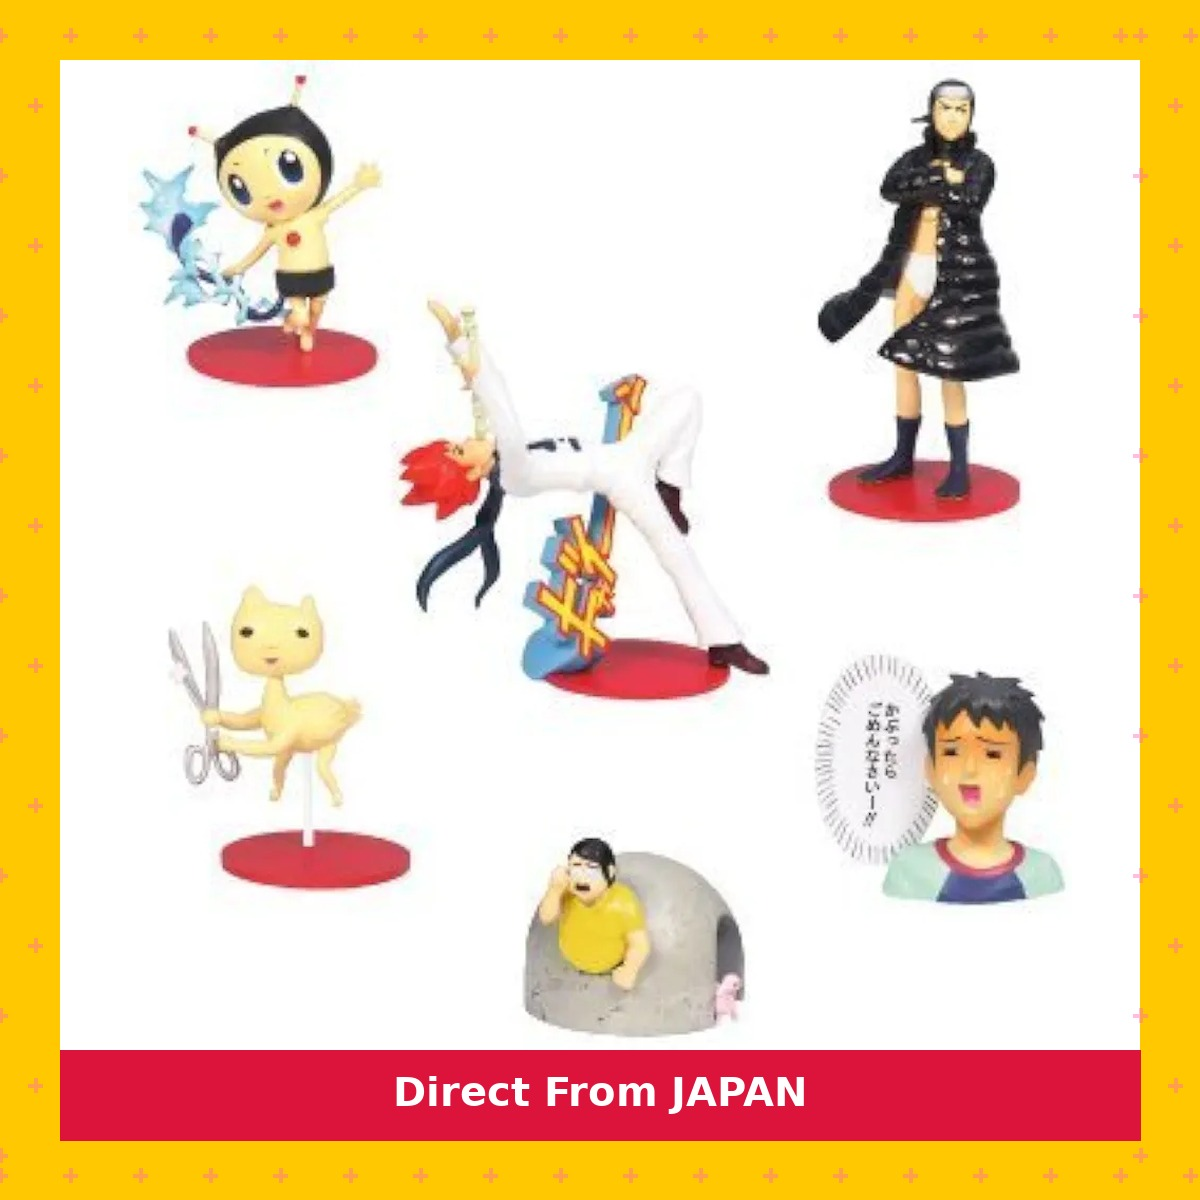
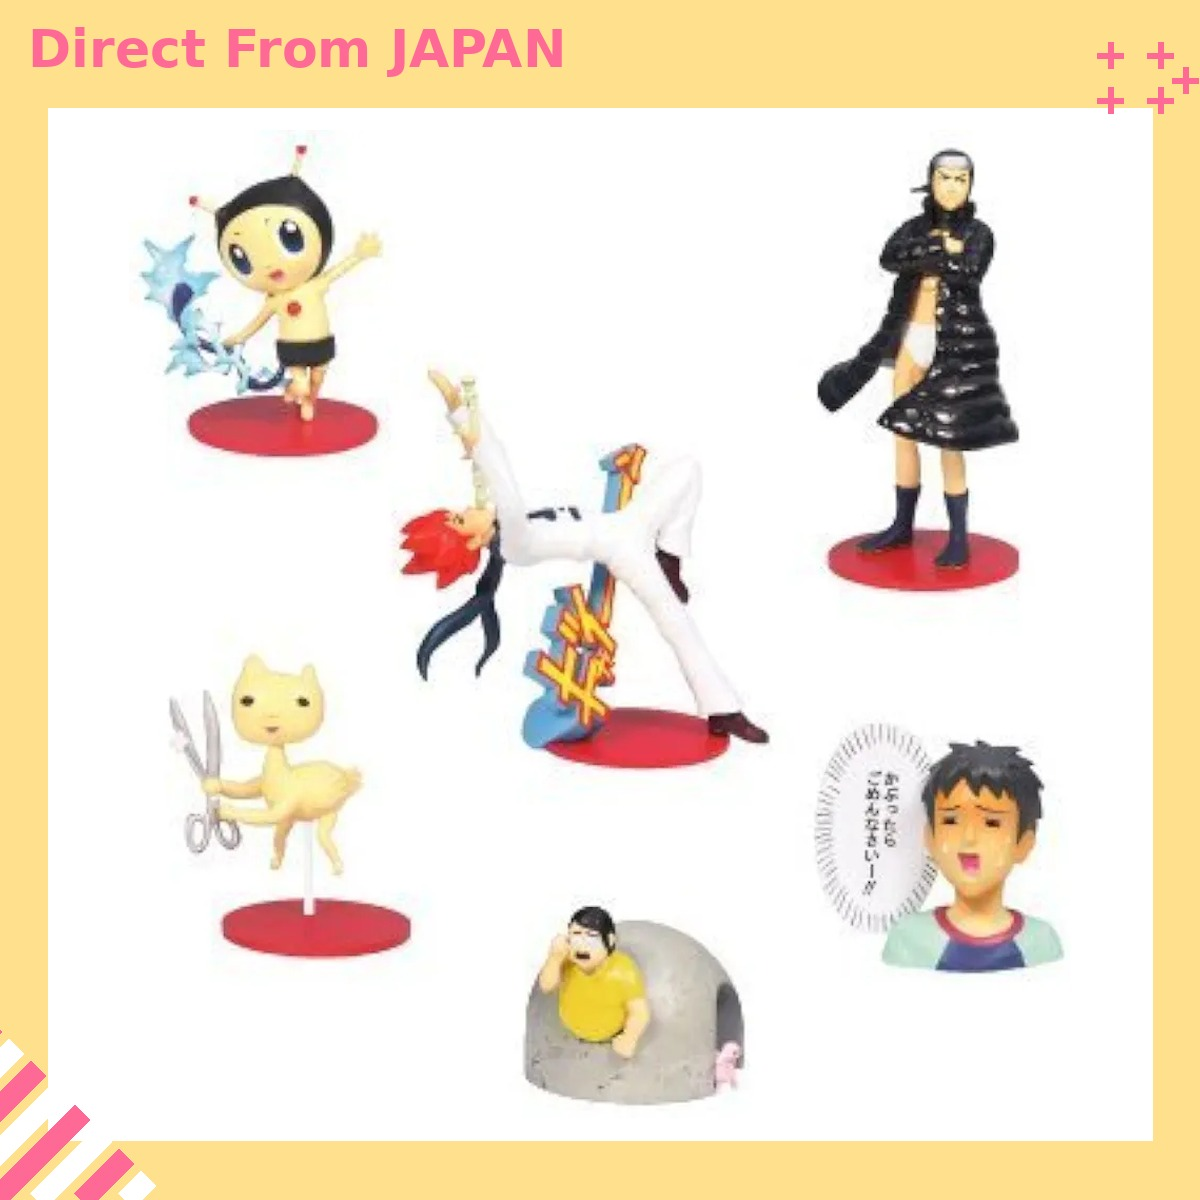
Update Shopee cover frame design to match reference layout
Replace the full-border/bottom-banner frame with a pastel-yellow
background, white product square, top-left pink "Direct From JAPAN"
text, top-right cross cluster, and bottom-left diagonal stripes,
per the reference image provided by the user.

Claude-Session: https://claude.ai/code/session_01QdUngbEzZhRHLENxqxoozk

diff --git a/scripts/add_shopee_frame.py b/scripts/add_shopee_frame.py
@@ -1,8 +1,8 @@
 """
 add_shopee_frame.py
 
-Shopee出品用Cover画像に「黄色枠＋ピンク十字模様＋Direct From JAPANバナー」を
-自動で加工するスクリプト（従来Canvaで手作業していた加工の自動化版）。
+Shopee出品用Cover画像に「パステルイエロー背景＋白抜き商品枠＋左上ピンクDirect From JAPANテキスト
+＋右上ピンク十字クラスター＋左下ピンク斜めストライプ」を自動で加工するスクリプト。
 
 使い方:
     from add_shopee_frame import add_frame
@@ -14,37 +14,23 @@ Shopee出品用Cover画像に「黄色枠＋ピンク十字模様＋Direct From 
 """
 
 from PIL import Image, ImageDraw, ImageFont
-import math
 import os
 
-# ---- デザイン設定（Canva手作業版の見た目に合わせて調整可能） ----
-CANVAS_SIZE = 1200          # 出力画像は正方形(Shopee推奨)
-BORDER_WIDTH = 60           # 黄色枠の太さ(px)
-BORDER_COLOR = (255, 200, 0)      # 黄色
-CROSS_COLOR = (255, 105, 180, 110)  # ピンク十字模様(半透明)
-CROSS_SPACING = 70          # 十字模様の間隔(px)
-CROSS_SIZE = 14             # 十字1つのサイズ(px)
-CROSS_THICKNESS = 4
-BANNER_HEIGHT = 90
-BANNER_BG = (220, 20, 60)   # バナー背景(クリムゾン)
-BANNER_TEXT_COLOR = (255, 255, 255)
+# ---- デザイン設定 ----
+CANVAS_SIZE = 1200               # 出力画像は正方形(Shopee推奨)
+BG_COLOR = (255, 224, 140)       # パステルイエロー背景
+WHITE = (255, 255, 255)
+PINK = (255, 105, 150)           # テキスト/十字/ストライプのピンク
+INNER_PAD = 22                   # 白枠内の商品画像パディング
 
+TOP_BAND = 108                   # 上部(テキスト/十字用)の余白高さ
+SIDE_MARGIN = 48                 # 左右の黄色マージン
+BOTTOM_MARGIN = 60                # 下部の黄色マージン
 
-def _draw_cross_pattern(draw: ImageDraw.ImageDraw, box, spacing=CROSS_SPACING):
-    """box=(x0,y0,x1,y1) の範囲にピンクの十字模様を敷き詰める"""
-    x0, y0, x1, y1 = box
-    y = y0 + spacing // 2
-    row = 0
-    while y < y1:
-        offset = (spacing // 2) if row % 2 else 0
-        x = x0 + offset
-        while x < x1:
-            half = CROSS_SIZE // 2
-            draw.line([(x - half, y), (x + half, y)], fill=CROSS_COLOR, width=CROSS_THICKNESS)
-            draw.line([(x, y - half), (x, y + half)], fill=CROSS_COLOR, width=CROSS_THICKNESS)
-            x += spacing
-        y += spacing
-        row += 1
+CROSS_SIZE = 26
+CROSS_THICKNESS = 6
+STRIPE_WIDTH = 22
+STRIPE_TRIANGLE = 170
 
 
 def _load_font(size):
@@ -58,49 +44,72 @@ def _load_font(size):
     return ImageFont.load_default()
 
 
+def _draw_cross(draw, cx, cy, size, color, thickness):
+    half = size // 2
+    draw.line([(cx - half, cy), (cx + half, cy)], fill=color, width=thickness)
+    draw.line([(cx, cy - half), (cx, cy + half)], fill=color, width=thickness)
+
+
 def add_frame(input_path: str, output_path: str, banner_text: str = "Direct From JAPAN"):
     """
-    input_path の商品画像に黄色枠＋ピンク十字模様＋バナーを加工し、output_path に保存する。
+    input_path の商品画像に、パステルイエロー背景＋白抜き商品枠＋左上ピンクテキスト
+    ＋右上ピンク十字クラスター＋左下ピンク斜めストライプを加工し、output_path に保存する。
     """
     base = Image.open(input_path).convert("RGB")
 
-    # 正方形キャンバスの中央に商品画像を配置(アスペクト比維持・余白は白)
-    inner = CANVAS_SIZE - 2 * BORDER_WIDTH
-    canvas = Image.new("RGB", (CANVAS_SIZE, CANVAS_SIZE), BORDER_COLOR)
+    canvas = Image.new("RGB", (CANVAS_SIZE, CANVAS_SIZE), BG_COLOR)
+    draw = ImageDraw.Draw(canvas)
 
-    photo_area = inner - BANNER_HEIGHT
-    ratio = min(inner / base.width, photo_area / base.height)
+    sq_x0 = SIDE_MARGIN
+    sq_y0 = TOP_BAND
+    sq_x1 = CANVAS_SIZE - SIDE_MARGIN
+    sq_y1 = CANVAS_SIZE - BOTTOM_MARGIN
+    draw.rectangle([sq_x0, sq_y0, sq_x1, sq_y1], fill=WHITE)
+
+    inner_w = (sq_x1 - sq_x0) - 2 * INNER_PAD
+    inner_h = (sq_y1 - sq_y0) - 2 * INNER_PAD
+    ratio = min(inner_w / base.width, inner_h / base.height)
     new_w, new_h = int(base.width * ratio), int(base.height * ratio)
     resized = base.resize((new_w, new_h), Image.LANCZOS)
+    paste_x = sq_x0 + INNER_PAD + (inner_w - new_w) // 2
+    paste_y = sq_y0 + INNER_PAD + (inner_h - new_h) // 2
+    canvas.paste(resized, (paste_x, paste_y))
 
-    white_bg = Image.new("RGB", (inner, photo_area), (255, 255, 255))
-    paste_x = (inner - new_w) // 2
-    paste_y = (photo_area - new_h) // 2
-    white_bg.paste(resized, (paste_x, paste_y))
-    canvas.paste(white_bg, (BORDER_WIDTH, BORDER_WIDTH))
-
-    # ピンク十字模様を黄色枠の上に重ねる(半透明合成)
-    overlay = Image.new("RGBA", canvas.size, (0, 0, 0, 0))
-    odraw = ImageDraw.Draw(overlay)
-    # 上枠・下枠・左枠・右枠それぞれに模様を敷く
-    _draw_cross_pattern(odraw, (0, 0, CANVAS_SIZE, BORDER_WIDTH))
-    _draw_cross_pattern(odraw, (0, CANVAS_SIZE - BORDER_WIDTH, CANVAS_SIZE, CANVAS_SIZE))
-    _draw_cross_pattern(odraw, (0, 0, BORDER_WIDTH, CANVAS_SIZE))
-    _draw_cross_pattern(odraw, (CANVAS_SIZE - BORDER_WIDTH, 0, CANVAS_SIZE, CANVAS_SIZE))
-    canvas = Image.alpha_composite(canvas.convert("RGBA"), overlay).convert("RGB")
-
-    # 下部に「Direct From JAPAN」バナー
     draw = ImageDraw.Draw(canvas)
-    banner_y0 = BORDER_WIDTH + photo_area
-    banner_y1 = banner_y0 + BANNER_HEIGHT
-    draw.rectangle([BORDER_WIDTH, banner_y0, CANVAS_SIZE - BORDER_WIDTH, banner_y1], fill=BANNER_BG)
 
-    font = _load_font(40)
-    bbox = draw.textbbox((0, 0), banner_text, font=font)
-    tw, th = bbox[2] - bbox[0], bbox[3] - bbox[1]
-    tx = (CANVAS_SIZE - tw) // 2
-    ty = banner_y0 + (BANNER_HEIGHT - th) // 2 - bbox[1]
-    draw.text((tx, ty), banner_text, fill=BANNER_TEXT_COLOR, font=font)
+    # 左上: "Direct From JAPAN" テキスト
+    font = _load_font(52)
+    draw.text((28, 18), banner_text, fill=PINK, font=font)
+
+    # 右上: ピンク十字クラスター
+    cross_positions = [
+        (CANVAS_SIZE - 90, 55), (CANVAS_SIZE - 40, 55), (CANVAS_SIZE - 15, 80),
+        (CANVAS_SIZE - 90, 100), (CANVAS_SIZE - 40, 100),
+    ]
+    for (cx, cy) in cross_positions:
+        _draw_cross(draw, cx, cy, CROSS_SIZE, PINK, CROSS_THICKNESS)
+
+    # 左下: ピンク/白の斜めストライプ(三角形にマスク)
+    stripe_overlay = Image.new("RGBA", canvas.size, (0, 0, 0, 0))
+    sdraw = ImageDraw.Draw(stripe_overlay)
+    toggle = False
+    total = CANVAS_SIZE + STRIPE_TRIANGLE
+    x = -total
+    while x < STRIPE_TRIANGLE:
+        color = PINK + (255,) if toggle else WHITE + (255,)
+        sdraw.line([(x, CANVAS_SIZE), (x + total, CANVAS_SIZE - total)], fill=color, width=STRIPE_WIDTH)
+        x += STRIPE_WIDTH * 2
+        toggle = not toggle
+
+    mask = Image.new("L", canvas.size, 0)
+    mdraw = ImageDraw.Draw(mask)
+    mdraw.polygon(
+        [(0, CANVAS_SIZE - STRIPE_TRIANGLE), (0, CANVAS_SIZE), (STRIPE_TRIANGLE, CANVAS_SIZE)],
+        fill=255,
+    )
+    stripe_alpha = Image.composite(stripe_overlay.split()[3], Image.new("L", canvas.size, 0), mask)
+    stripe_overlay.putalpha(stripe_alpha)
+    canvas = Image.alpha_composite(canvas.convert("RGBA"), stripe_overlay).convert("RGB")
 
     canvas.save(output_path, quality=92)
     return output_path
